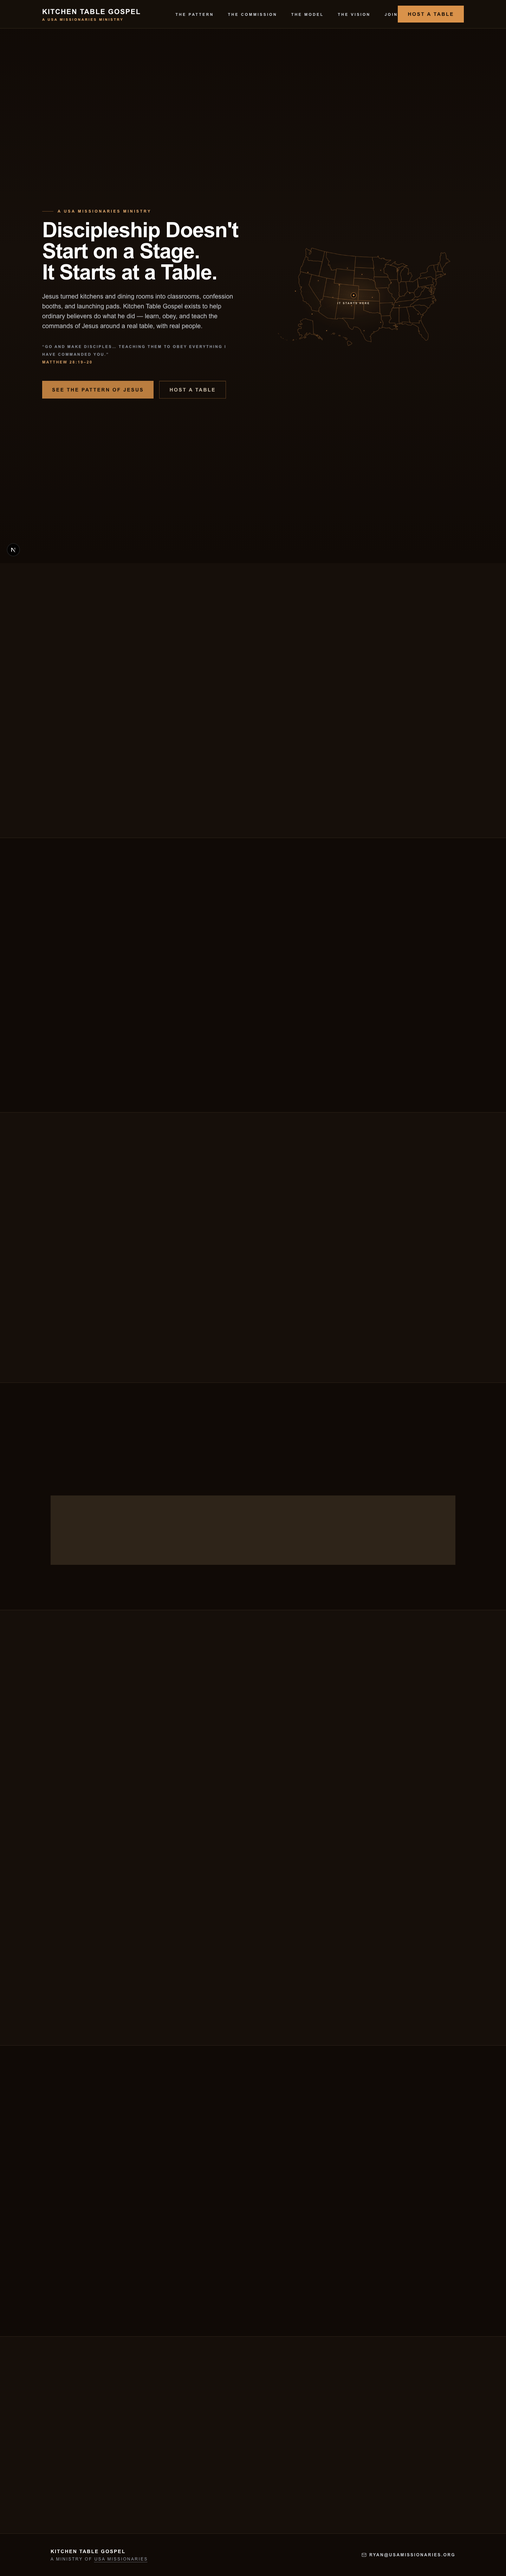
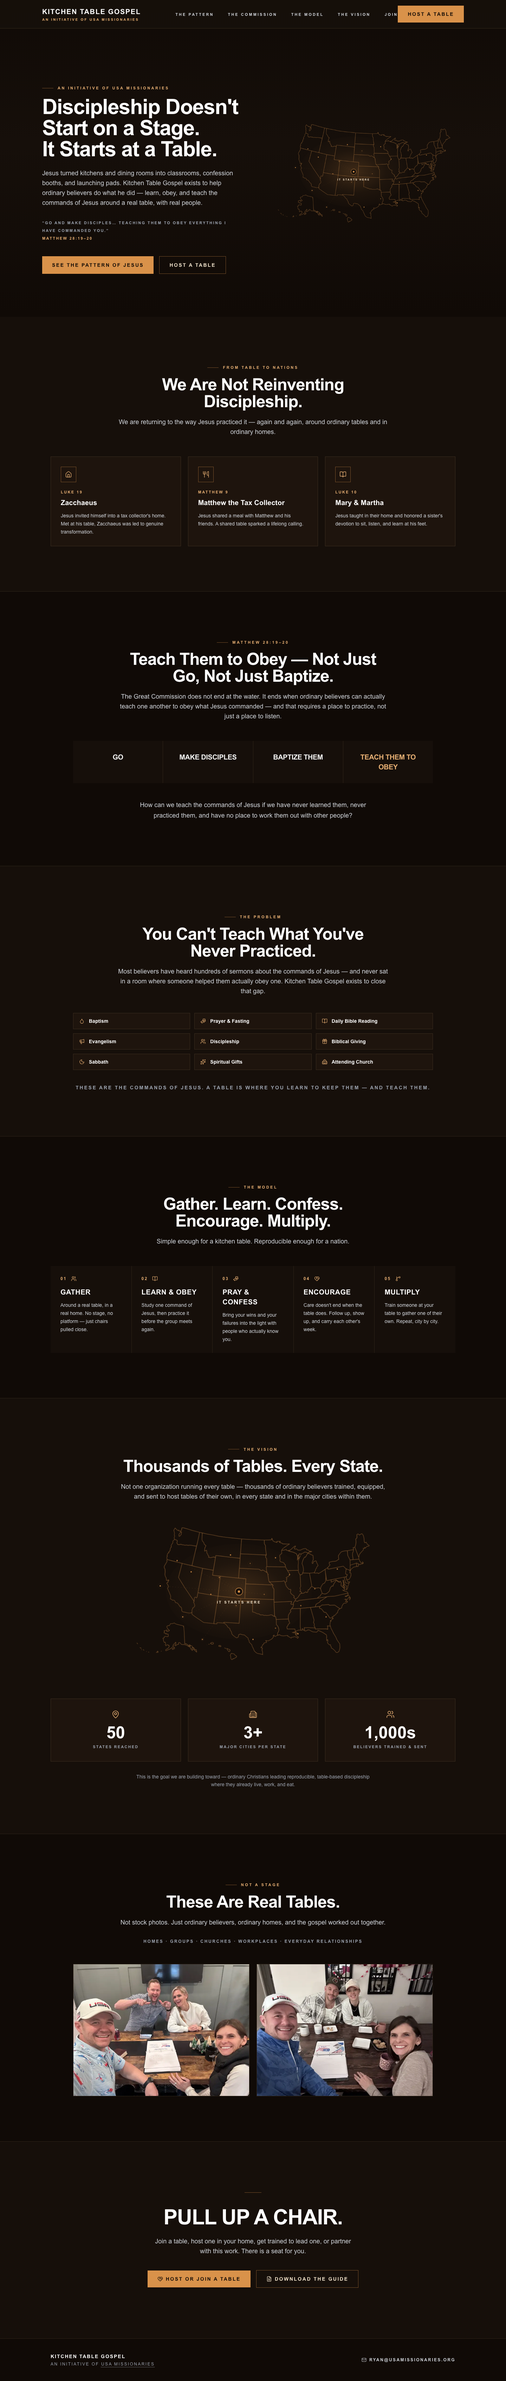
USA-71 close content-audit gaps on Kitchen Table Gospel page
Restore the exact founder-approved phrase "An initiative of USA
Missionaries" (header + footer), add the Encourage step to the model
rhythm (Gather/Learn & Obey/Pray & Confess/Encourage/Multiply) to match
the issue's suggested flow, and fold in the Codex page's "Homes /
Groups / Churches / Workplaces / Everyday Relationships" list that had
been dropped. Refresh desktop/mobile review screenshots to match.

diff --git a/app/domain-sites/kitchen-table-gospel/KitchenTableGospelPage.tsx b/app/domain-sites/kitchen-table-gospel/KitchenTableGospelPage.tsx
@@ -167,7 +167,7 @@ function Header() {
             KITCHEN TABLE GOSPEL
           </span>
           <span className="mt-1 text-[10px] font-semibold uppercase tracking-[0.28em]" style={{ fontFamily: font.rajdhani, color: ktg.amberSoft }}>
-            A USA Missionaries Ministry
+            An initiative of USA Missionaries
           </span>
         </a>
 
@@ -377,6 +377,8 @@ function CommandPill({ icon: Icon, label }: { icon: LucideIcon; label: string })
   );
 }
 
+const places = ["Homes", "Groups", "Churches", "Workplaces", "Everyday Relationships"] as const;
+
 const modelSteps = [
   {
     n: "01",
@@ -398,6 +400,12 @@ const modelSteps = [
   },
   {
     n: "04",
+    icon: HeartHandshake,
+    title: "ENCOURAGE",
+    body: "Care doesn't end when the table does. Follow up, show up, and carry each other's week.",
+  },
+  {
+    n: "05",
     icon: GitBranch,
     title: "MULTIPLY",
     body: "Train someone at your table to gather one of their own. Repeat, city by city.",
@@ -431,7 +439,7 @@ export function KitchenTableGospelPage() {
         <div className="relative z-10 mx-auto grid w-full max-w-7xl gap-16 px-6 py-16 md:grid-cols-2 md:items-center md:px-10">
           <div>
             <Reveal>
-              <Eyebrow>A USA Missionaries Ministry</Eyebrow>
+              <Eyebrow>An initiative of USA Missionaries</Eyebrow>
             </Reveal>
             <Reveal delay={100}>
               <h1 className="text-4xl font-bold leading-[1.05] tracking-tight text-stone-100 sm:text-5xl md:text-6xl" style={{ fontFamily: font.oswald }}>
@@ -583,12 +591,12 @@ export function KitchenTableGospelPage() {
       <section id="model" className="border-y px-6 py-24 md:px-10 md:py-32" style={{ borderColor: ktg.panelBorder, background: ktg.bgAlt }}>
         <div className="mx-auto max-w-6xl">
           <Reveal>
-            <SectionHeading eyebrow="The Model" headline="Gather. Learn. Confess. Multiply.">
+            <SectionHeading eyebrow="The Model" headline="Gather. Learn. Confess. Encourage. Multiply.">
               <p>Simple enough for a kitchen table. Reproducible enough for a nation.</p>
             </SectionHeading>
           </Reveal>
 
-          <div className="mt-14 grid gap-px sm:grid-cols-2 lg:grid-cols-4" style={{ background: ktg.panelBorder }}>
+          <div className="mt-14 grid gap-px sm:grid-cols-2 lg:grid-cols-5" style={{ background: ktg.panelBorder }}>
             {modelSteps.map((step, i) => (
               <Reveal key={step.n} delay={i * 130}>
                 <div className="h-full p-7" style={{ background: ktg.bg }}>
@@ -651,6 +659,15 @@ export function KitchenTableGospelPage() {
             <SectionHeading eyebrow="Not a Stage" headline="These Are Real Tables.">
               <p>Not stock photos. Just ordinary believers, ordinary homes, and the gospel worked out together.</p>
             </SectionHeading>
+          </Reveal>
+
+          <Reveal delay={100}>
+            <p
+              className="mt-8 text-center text-xs font-semibold uppercase tracking-[0.22em] text-stone-500"
+              style={{ fontFamily: font.rajdhani }}
+            >
+              {places.join(" · ")}
+            </p>
           </Reveal>
 
           <Reveal delay={180}>
@@ -717,7 +734,7 @@ export function KitchenTableGospelPage() {
               Kitchen Table Gospel
             </p>
             <p className="mt-1 text-xs uppercase tracking-[0.2em] text-stone-500" style={{ fontFamily: font.rajdhani }}>
-              A ministry of{" "}
+              An initiative of{" "}
               <Link href="https://usamissionaries.org" className="underline decoration-dotted underline-offset-4 hover:text-stone-300">
                 USA Missionaries
               </Link>
